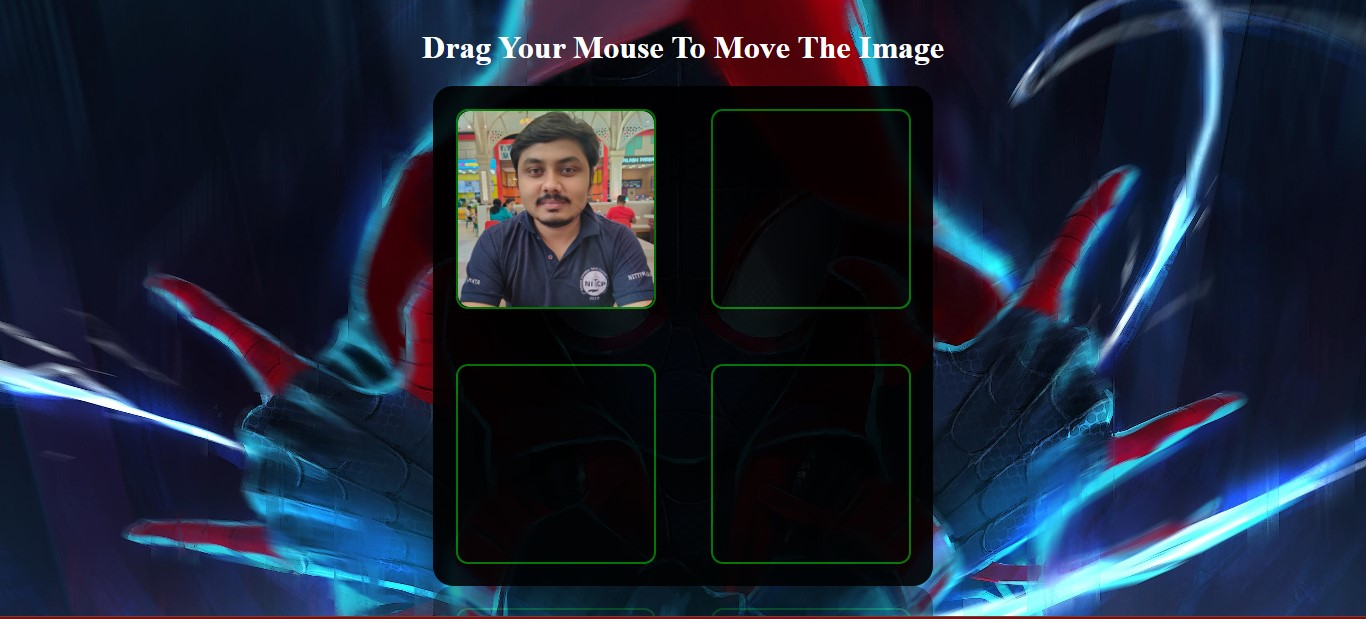
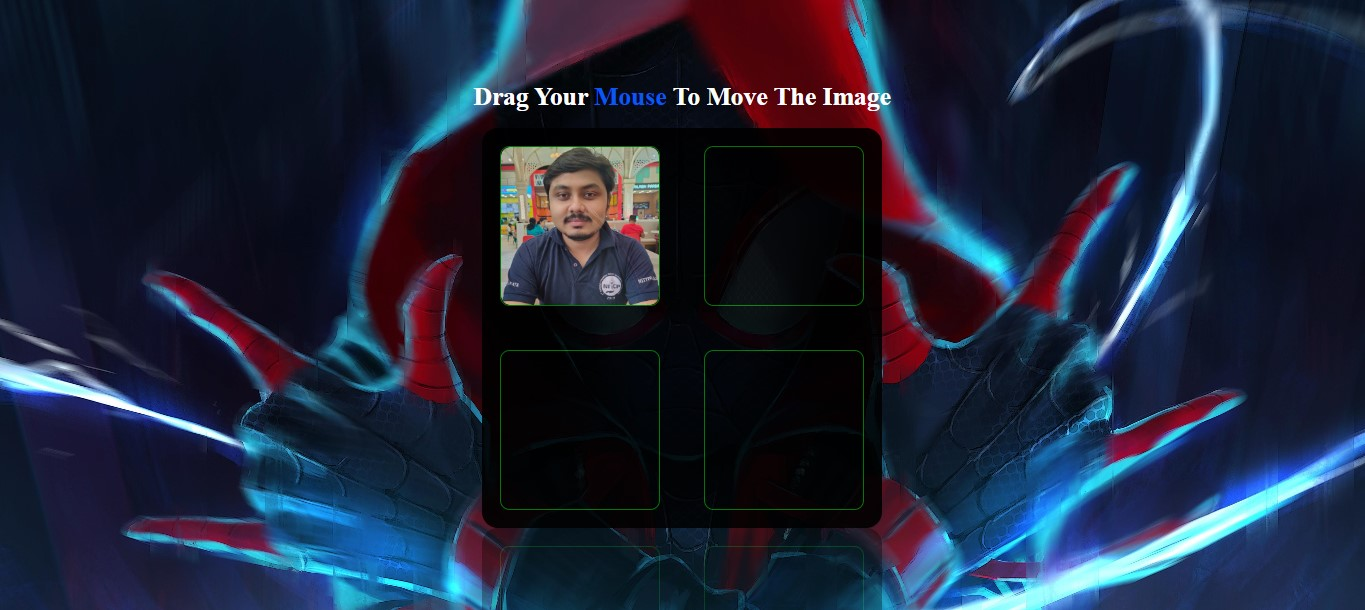
Highlight the mouse and update ui image

diff --git a/index.html b/index.html
@@ -10,7 +10,7 @@
     <script src="Script.js" defer></script>
   </head>
   <body>
-    <h1>Drag Your Mouse To Move The Image</h1>
+    <h1>Drag Your <span id="important">Mouse</span> To Move The Image</h1>
     <div id="container">
       <div class="drag-box">
         <div id="img-box" draggable="true">

diff --git a/Style.css b/Style.css
@@ -58,3 +58,6 @@ body {
   background-position: center;
   background-repeat: no-repeat;
 }
+#important{
+  color: #0b58f1;
+}
